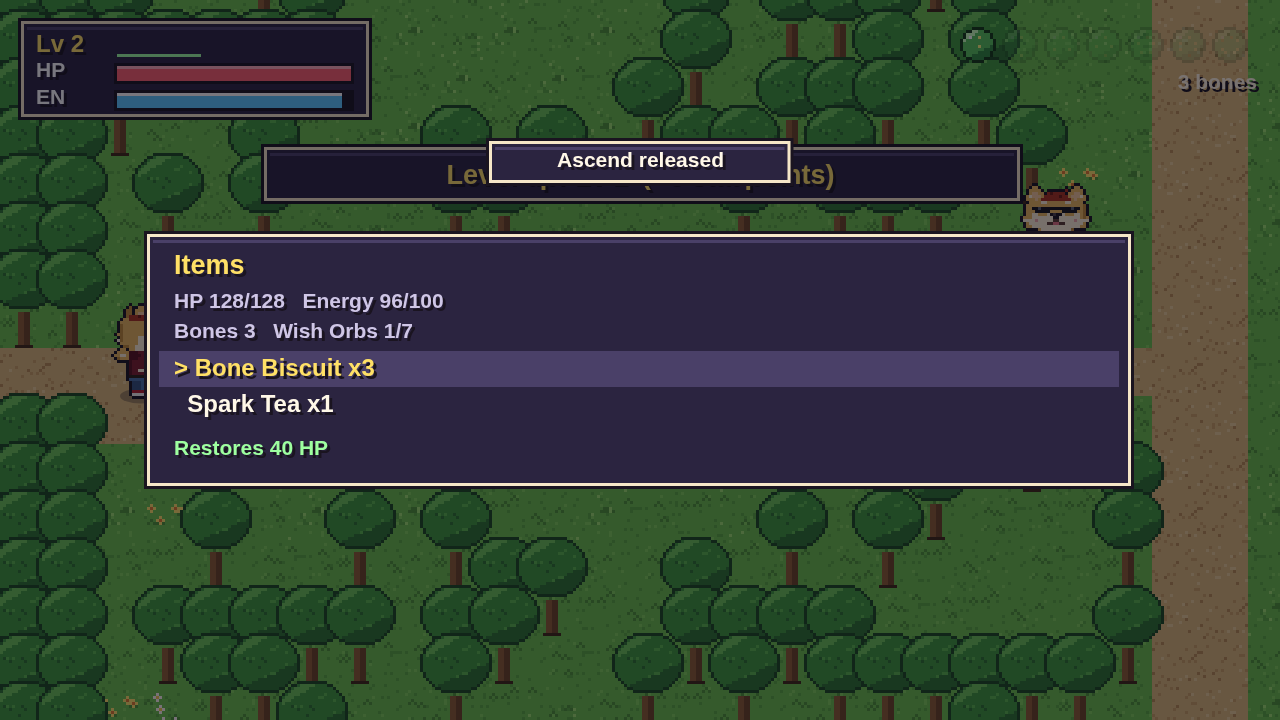
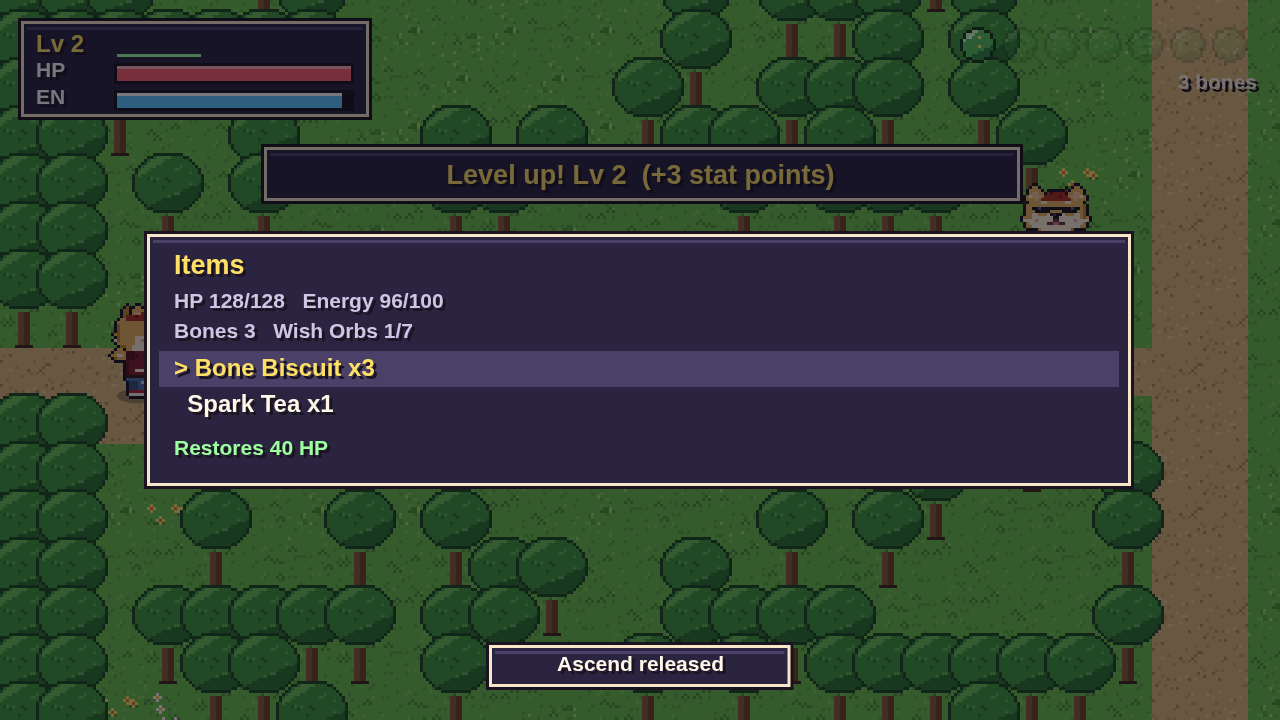
HUD/Pepe polish, README

diff --git a/src/game.js b/src/game.js
@@ -301,7 +301,7 @@ function updatePickups() {
 
 // ---------------- Pepe the Wish Frog ----------------
 function startWish() {
-  G.state = 'wish'; G.wish = { t: 0, phase: 'rise' }; Audio8.music('wish'); Audio8.sfx('croak'); G.shake = 0.5;
+  G.state = 'wish'; G.wish = { t: 0, phase: 'rise' }; pl.x = 20 * TILE; pl.y = 9.5 * TILE; pl.dir = 1; pl.ascend = false; Audio8.music('wish'); Audio8.sfx('croak'); G.shake = 0.5;
 }
 function updateWish(dt) {
   const w = G.wish; w.t += dt;
@@ -478,19 +478,19 @@ function drawWish(ox, oy) {
   const w = G.wish, k = Math.min(1, w.t / 1.2); ctx.fillStyle = `rgba(10,20,40,${0.6 * (w.phase === 'leave' ? Math.max(0, 1 - w.t / 1.6) : k)})`; ctx.fillRect(0, 0, VW, VH);
   if (w.phase === 'rise' && Math.random() < 0.08) { R(0, 0, VW, VH, 'rgba(200,255,200,.4)'); G.shake = 0.15; }
   const rise = w.phase === 'rise' ? Math.min(1, Math.max(0, (w.t - 0.8) / 1.4)) : w.phase === 'leave' ? Math.max(0, 1 - w.t / 1.4) : 1; if (rise <= 0) return;
-  const img = A.pepe[Math.floor(G.t * 0.7) % 4 === 0 ? 1 : 0], px = 20 * TILE - 60 - ox, py = 4 * TILE - 30 - oy - Math.round(rise * 70);
+  const img = A.pepe[Math.floor(G.t * 0.7) % 4 === 0 ? 1 : 0], px = 20 * TILE - 60 - ox, py = 2 * TILE + 40 - oy - Math.round(rise * 40);
   ctx.globalAlpha = rise; for (let i = 0; i < 7; i++) { const a = G.t * 1.5 + i / 7 * 6.28; ctx.drawImage(A.orbs[i], Math.round(20 * TILE - 7 + Math.cos(a) * 70 - ox), Math.round(py + 50 + Math.sin(a) * 22)); }
   ctx.drawImage(img, Math.round(px), Math.round(py)); ctx.globalAlpha = 1;
 }
 function drawHUD() {
-  const p = P(), d = D(), bx = 6, by = 6;
+  const p = P(), d = D(), bx = 6, by = 6, rx = document.body.classList.contains('touch') && VW > VH ? 22 : 0;
   panel(bx, by, 118, 34); text(`Lv ${p.level}`, bx + 6, by + 5, '#ffe066', 8);
-  const bar = (y, v, max, c1, c2, label) => { R(bx + 32, y, 80, 7, '#1a1420'); R(bx + 33, y + 1, Math.max(0, Math.round(78 * v / max)), 5, c1); R(bx + 33, y + 1, Math.max(0, Math.round(78 * v / max)), 1, c2); text(label, bx + 6, y - 1, '#fff', 7); };
+  const bar = (y, v, max, c1, c2, label) => { R(bx + 32, y, 80, 7, '#1a1420'); R(bx + 33, y + 1, Math.max(0, Math.round(78 * Math.min(1, v / max))), 5, c1); R(bx + 33, y + 1, Math.max(0, Math.round(78 * Math.min(1, v / max))), 1, c2); text(label, bx + 6, y - 1, '#fff', 7); };
   bar(by + 15, p.hp, d.maxHp, '#ff5f6d', '#ffb0b8', 'HP'); bar(by + 24, p.energy, d.maxEnergy, pl.ascend ? '#ffe066' : '#5cc8ff', '#ffffff', pl.ascend ? 'ASC' : 'EN');
   R(bx + 33, by + 12, Math.round(78 * p.xp / C.xpToNext(p.level)), 1, '#9effa0');
-  if (G.mode === 'hunt') { for (let i = 0; i < 7; i++) { ctx.globalAlpha = i < G.hunt.got.length ? 1 : 0.25; ctx.drawImage(A.orbs[i], VW - 108 + i * 14, 8); } ctx.globalAlpha = 1; }
-  else if (G.mode === 'story') { for (let i = 0; i < 7; i++) { ctx.globalAlpha = p.orbs.includes('orb' + (i + 1)) ? 1 : 0.22; ctx.drawImage(A.orbs[i], VW - 108 + i * 14, 8); } ctx.globalAlpha = 1; text(`${p.bones} bones`, VW - 8, 24, '#fff4e0', 7, 'right'); }
-  if (G.run) text(`${G.mode === 'rush' ? 'BOSS RUSH' : 'HUNT'}  ${fmtTime(performance.now() - G.run.t0)}  deaths ${G.run.deaths}`, VW - 8, G.mode === 'hunt' ? 24 : 8, '#ffe066', 8, 'right');
+  if (G.mode === 'hunt') { for (let i = 0; i < 7; i++) { ctx.globalAlpha = i < G.hunt.got.length ? 1 : 0.25; ctx.drawImage(A.orbs[i], VW - 108 - rx + i * 14, 8); } ctx.globalAlpha = 1; }
+  else if (G.mode === 'story') { for (let i = 0; i < 7; i++) { ctx.globalAlpha = p.orbs.includes('orb' + (i + 1)) ? 1 : 0.22; ctx.drawImage(A.orbs[i], VW - 108 - rx + i * 14, 8); } ctx.globalAlpha = 1; text(`${p.bones} bones`, VW - 8 - rx, 24, '#fff4e0', 7, 'right'); }
+  if (G.run) text(`${G.mode === 'rush' ? 'BOSS RUSH' : 'HUNT'}  ${fmtTime(performance.now() - G.run.t0)}  deaths ${G.run.deaths}`, VW - 8 - rx, G.mode === 'hunt' ? 24 : 8, '#ffe066', 8, 'right');
   const b = G.boss; if (b && b.st !== 'intro' && b.st !== 'down') { const w = Math.min(220, VW - 40), x = (VW - w) / 2, y = VH - 18; R(x - 1, y - 1, w + 2, 9, '#1a1420'); R(x, y, Math.round(w * b.hp / b.max), 7, '#ff7bd5'); R(x, y, Math.round(w * b.hp / b.max), 2, '#ffd0e6'); text('CATE', x, y - 10, '#ffd0e6', 8); }
 }
 function drawDialog() {
@@ -529,7 +529,7 @@ function render() {
   if (G.banner) { const a = Math.min(1, G.banner.t * 2); ctx.globalAlpha = a; const w = Math.min(VW - 20, G.banner.text.length * 7 + 30); panel((VW - w) / 2, VH * 0.2, w, 20); text(G.banner.text, VW / 2, VH * 0.2 + 6, '#ffe066', 9, 'center'); ctx.globalAlpha = 1; }
   if (G.dialog) drawDialog();
   if (G.menu) drawMenu();
-  if (G.toast) { const w = Math.min(VW - 20, G.toast.msg.length * 5.5 + 20); panel((VW - w) / 2, 46, w, 16); text(G.toast.msg, VW / 2, 50, '#fff8e8', 7, 'center'); }
+  if (G.toast) { const w = Math.min(VW - 20, G.toast.msg.length * 5.5 + 20); panel((VW - w) / 2, VH - 26, w, 16); text(G.toast.msg, VW / 2, VH - 22, '#fff8e8', 7, 'center'); }
   if (G.fade > 0) { ctx.fillStyle = `rgba(10,8,20,${G.fade})`; ctx.fillRect(0, 0, VW, VH); }
 }
 // ---------------- loop ----------------

diff --git a/README.md b/README.md
@@ -1,0 +1,8 @@
+# PepeBallz: Cate's Fury
+
+This is an original top-down action RPG built with vanilla JS and canvas. It has no frameworks and no build step.
+- **Controls:** WASD/arrows to move, J/Z to attack (3-hit combo) or talk, K/X for Howl Blast, hold L/C to charge, Space/Shift to dash, Q/V to Ascend, Enter for the menu, M to mute. Touch devices get a thumb stick on the left and buttons on the right.
+- **Chapter 1:** Pawpaw Village, Whisker Woods and Fang Peak. You collect 7 Wish Orbs, fight Cate (form 1), and summon Pepe the Wish Frog.
+- **Inu sprites:** ported from Inu Verse (`src/inu/` is a copy, so Inu Verse itself is untouched).
+- **Wish Network (`src/kibble.js`):** SIMULATED $KIBBLE. It includes a weekly seeded orb hunt, a Cate boss rush, rank-based daily/weekly/monthly pools, holder tiers, the Pepe Wish shop (2% fee in millionths), packs and the Kibble Cup, a co-op raid stub and an Inu Verse export stub. Cosmetics only. Bones never cash out. Plug a real wallet in with `setWallet(adapter)`, using the same shape as `SimWallet`.
+- **Tests:** `npm test` runs the headless rules, fee and ranking tests. `npm run e2e -- <url>` runs the Playwright checks; screenshots go to `proof/`.
